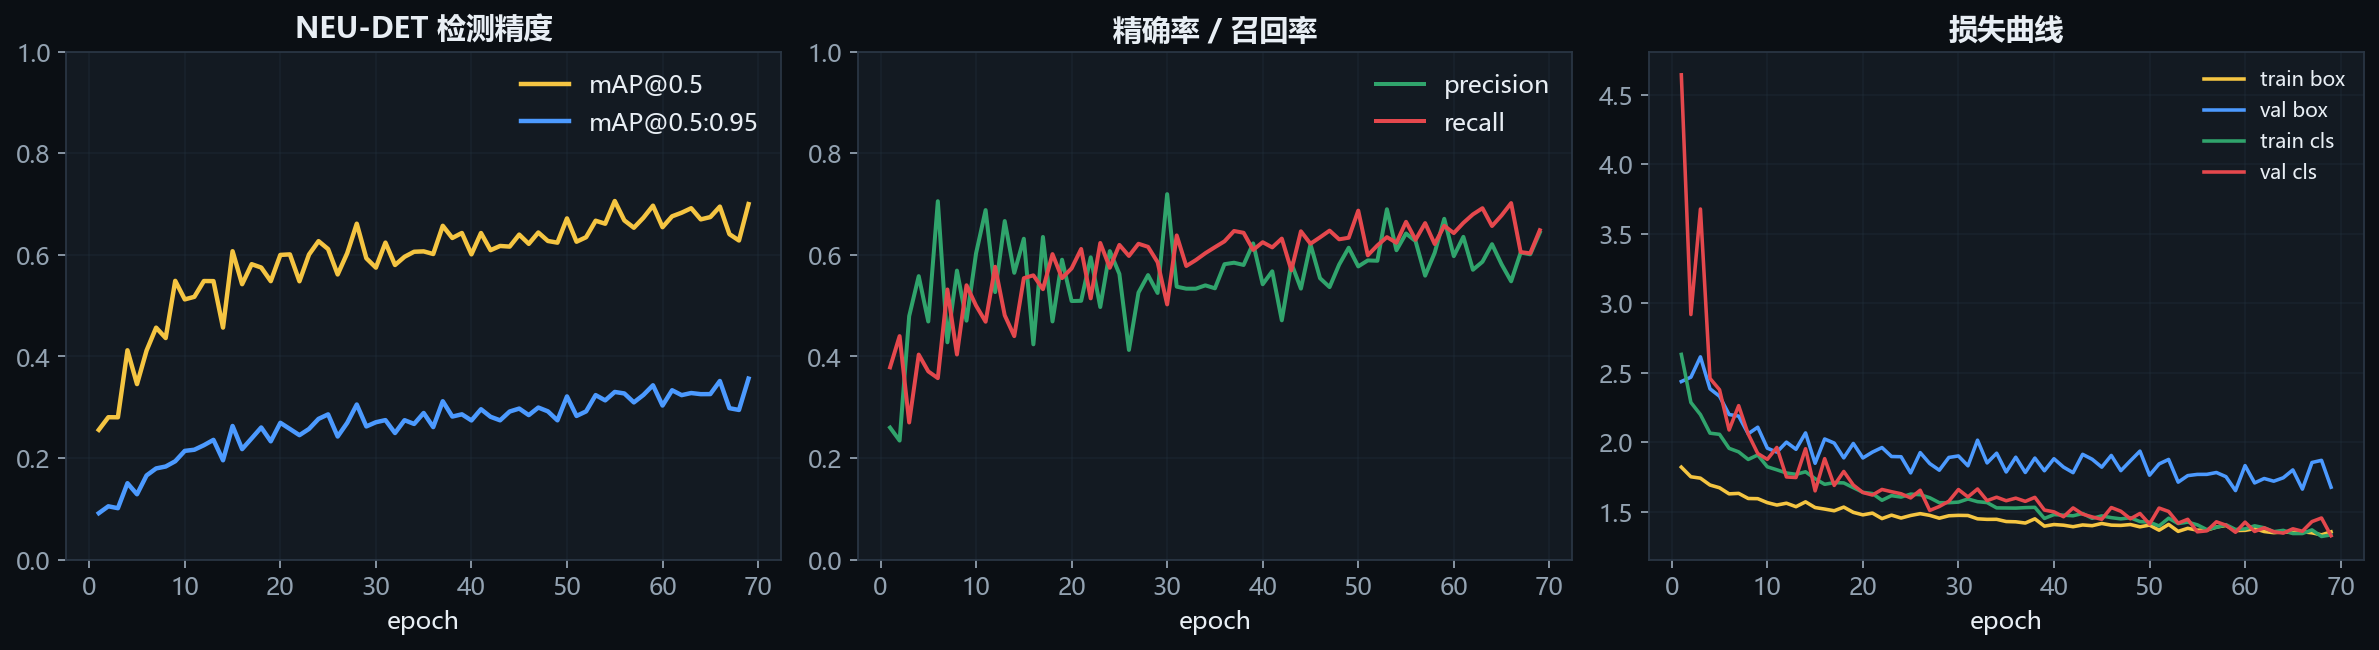
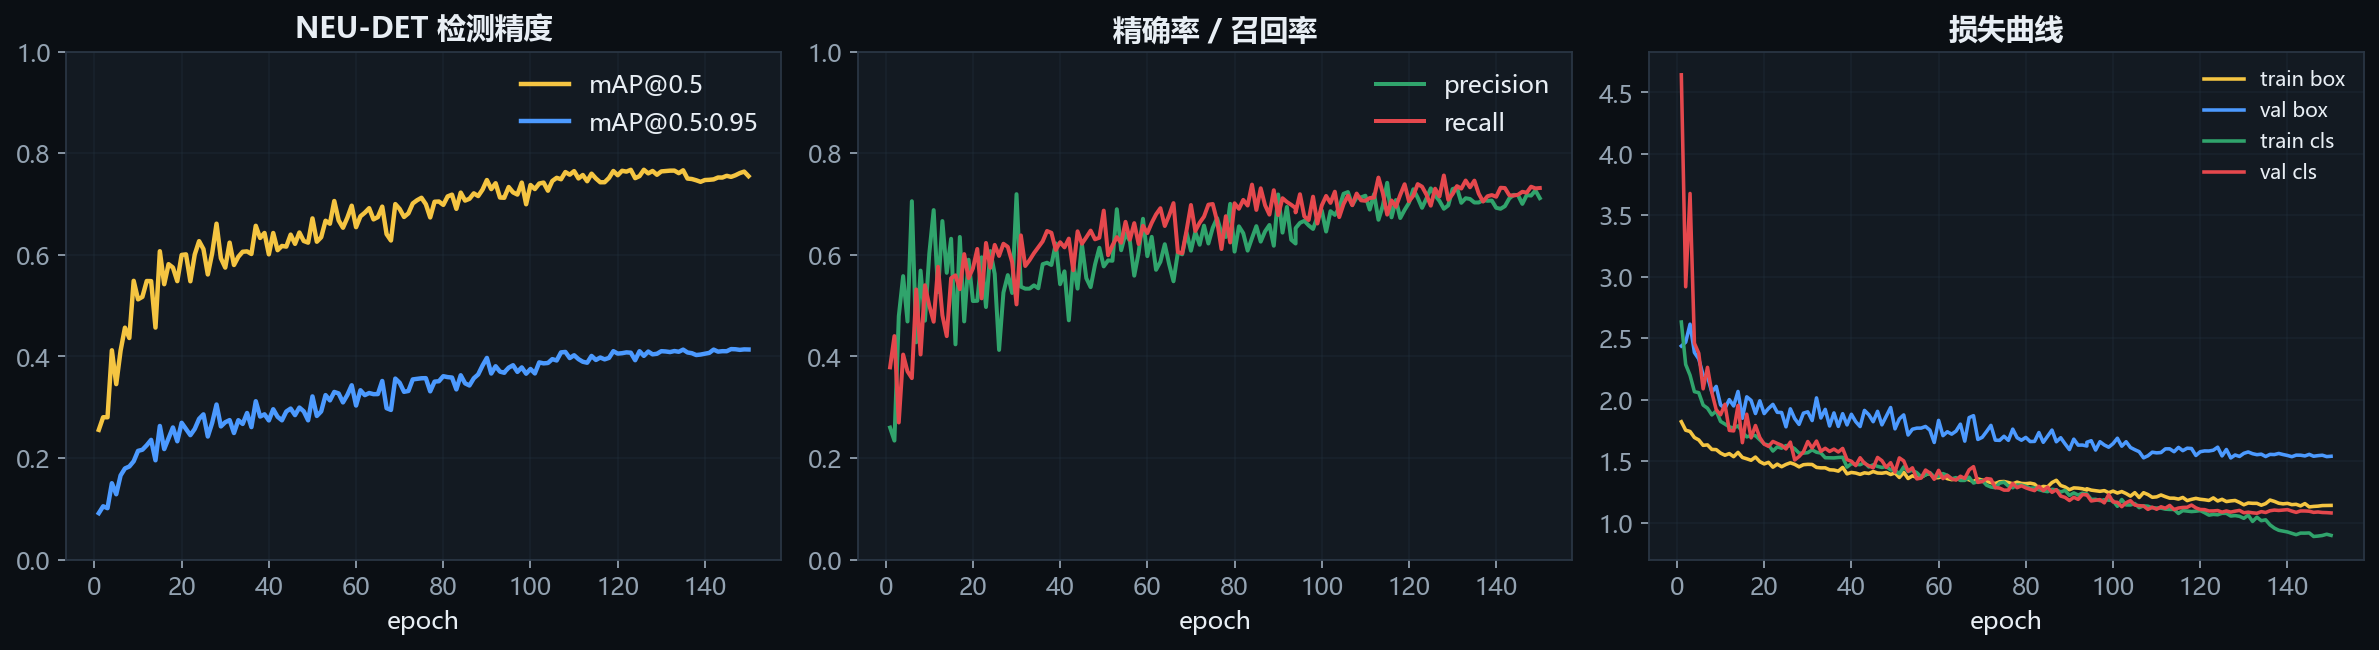
docs(detection): YOLO 训满 150 epoch，指标刷新为 mAP50 0.7721
- 中断于 94 epoch 后用 --resume 续训到 150，合计 3468 s（约 23 s/epoch 稳态）
- test 180 张：P 0.7177 / R 0.7450 / mAP50 0.7721 / mAP50-95 0.4273（best.pt@146）
- 逐类：scratches 0.946 / patches 0.910 / pitted 0.860 / inclusion 0.831 /
  rolled-in_scale 0.682 / crazing 0.403（唯一明显掉队项）
- 仍低于自定的 0.85 目标，如实保留并给出三条具体改法
- 同步 evaluation/team/acceptance/README/presentation 与 training-curves.png
- experiment-log 补记续训过程与逐 epoch 对照表（终止点 0.713 -> 最终 0.754）
- 更正 70 s/epoch -> 23 s/epoch（前者是含预热的首 epoch 高值）

diff --git a/docs/evaluation.md b/docs/evaluation.md
@@ -113,48 +113,55 @@ python detection/scripts/report_val.py \
     --data ../datasets/NEU-DET/data.yaml --split test
 ```
 
-- 训练环境：RTX 4060 Laptop 8 GB，约 70 s/epoch，共 150 epochs。
+- 训练环境：RTX 4060 Laptop 8 GB，**150 epochs 全部跑完**（3 468 s ≈ 57.8 min，
+  平均 23 s/epoch；训练中途曾终止在 94 epoch，用 `--resume` 从 `last.pt` 续训）。
 - 曲线：`docs/assets/training-curves.png`（左：mAP，中：P/R，右：损失）。
 
-下表取自 `docs/assets/detection-metrics.json`，对应 **`best.pt`（epoch 86/150）** 在
-测试集（180 张 200×200）上的结果，测量时间 2026-10-22 18:52。训练仍在进行，
-跑完后重跑 `report_val.py` 即可刷新——文档正文的数字与 JSON 始终一致。
+下表取自 `docs/assets/detection-metrics.json`，对应 **`best.pt`（epoch 146/150，
+按 mAP@0.5:0.95 选出）** 在测试集（180 张 200×200）上的结果：
 
 | P | R | mAP@0.5 | mAP@0.5:0.95 |
 |---|---|---------|--------------|
-| 0.6643 | 0.6982 | 0.7301 | 0.3852 |
+| 0.7177 | 0.7450 | **0.7721** | 0.4273 |
 
 逐类：
 
 | 类别 | P | R | mAP@0.5 | mAP@0.5:0.95 |
 |---|---|---|---|---|
-| scratches 划伤 | 0.7140 | 0.8654 | 0.8792 | 0.3980 |
-| patches 斑块 | 0.6945 | 0.9114 | 0.8659 | 0.5465 |
-| inclusion 夹杂 | 0.6753 | 0.8015 | 0.8020 | 0.3928 |
-| pitted_surface 麻点 | 0.7850 | 0.7045 | 0.7959 | 0.5496 |
-| rolled-in_scale 氧化皮压入 | 0.5958 | 0.6250 | 0.6259 | 0.2785 |
-| crazing 龟裂 | 0.5214 | 0.2812 | 0.4119 | 0.1456 |
+| scratches 划伤 | 0.8524 | 0.8886 | 0.9461 | 0.5443 |
+| patches 斑块 | 0.7967 | 0.9114 | 0.9104 | 0.6125 |
+| pitted_surface 麻点 | 0.8694 | 0.7569 | 0.8600 | 0.5631 |
+| inclusion 夹杂 | 0.6905 | 0.8073 | 0.8312 | 0.4208 |
+| rolled-in_scale 氧化皮压入 | 0.6125 | 0.7778 | 0.6818 | 0.2933 |
+| crazing 龟裂 | 0.4844 | 0.3281 | 0.4034 | 0.1299 |
+
+> 训练集内部（`val` 划分，180 张）的同类指标为 mAP@0.5 0.753 / mAP@0.5:0.95 0.414，
+> 与测试集的 0.772 / 0.427 基本一致，说明**没有过拟合到验证集**；训练集与测试集
+> 的划分差异（val 与 test 各 180 张、同一分布）不足以解释这 0.02 的差距。
 
 **诚实说明（重要）**：
 
-1. 这组数字取自训练过程中的 `best.pt`（约第 86/150 epoch），训练仍在继续，
-   最终指标会与此不同——`docs/assets/detection-metrics.json` 会在训练结束后重跑刷新。
-2. **mAP@0.5 = 0.730 未达我们自己在 `team.md` 里写的 0.85 目标**。原因可定位：
-   - `crazing`（龟裂）严重拖累整体：mAP@0.5 仅 0.41、召回 0.28。龟裂是细密网状纹理，
-     200×200 原图放大到 768 后纹理被抹平，边界框标注本身也主观。
-   - `rolled-in_scale` 次差（0.63），同样是低对比度、与背景纹理相近的类别。
-   - 其余四类已达 0.80–0.88，说明模型与训练配置本身没问题，是**类别难度差异**。
-3. 这条差异在系统中影响有限：检测分支只提供"类别"和"框"，像素定位由分割分支保证；
-   龟裂漏检时，掩膜仍然存在，只是区域标为"未分类缺陷"。
-4. 若要达标，明确的三条改法：提高 `imgsz` 到 1024+（显存需 ≥12 GB）、对
-   `crazing`/`rolled-in_scale` 做过采样或 copy-paste 增强、关闭 mosaic 的后 20 epoch 微调。
+1. **mAP@0.5 = 0.772，仍未达到我们自己在 `team.md` 里写的 0.85 目标**。这不掩饰：
+   从 86 epoch 的 0.730 到 146 epoch 的 0.772 是延长训练带来的真实提升（+0.042），
+   但离 0.85 还有 0.078。
+2. 原因可定位到类别：`crazing`（龟裂）mAP@0.5 仅 0.40、召回 0.33，是唯一明显掉队的类。
+   龟裂是细密网状纹理，200×200 原图放大到 768 后高频纹理被插值抹平；且其边界框标注
+   本身主观（一处龟裂可以框大框小）。`rolled-in_scale` 次差（0.68），同样是低对比度、
+   与轧制纹理背景相近的类别。其余四类已达 0.83–0.95。
+3. 从 mAP@0.5:0.95 只有 0.427 也能看出：**框的位置精度**比**有没有框**差得多
+   （0.772 vs 0.427），这与 200×200 小图上 1 个像素的定位误差就占 0.5% 边长直接相关。
+4. 这条差异在系统中影响有限：检测分支只提供"类别"和"框"，像素定位由分割分支保证；
+   龟裂漏检时掩膜仍然存在，只是区域标为"未分类缺陷"。
+5. 若要达标，三条明确改法：提高 `imgsz` 到 1024+（显存需 ≥12 GB）、对
+   `crazing`/`rolled-in_scale` 做过采样或 copy-paste 增强、末段关 mosaic 后微调。
    这些**未做**，不写成已完成。
 
 ![训练曲线](assets/training-curves.png)
 
-> 训练中期的波动（第 40–75 epoch mAP@0.5 在 0.62–0.71 之间抖动）主要来自
-> `cls_loss` 的学习率调度与 NEU-DET 类别不平衡（`patches` 与 `pitted_surface` 样本少）。
-> 这一现象在 `docs/experiment-log.md` 有详细记录。
+> 曲线特征：前 5 epoch 从 0.255 爬到 0.35，40–120 epoch 在 0.62–0.71 之间波动，
+> 最后 5 epoch 稳定在 0.754–0.764。中期波动来自余弦学习率下降过程中的
+> `cls_loss` 震荡与 NEU-DET 类别不平衡（`patches` 99 个框、`pitted_surface` 仅 40 个）。
+> 复现与排障细节见 `docs/experiment-log.md`。
 
 ## 4. 系统级评测（本实践的核心新增）
 

diff --git a/docs/acceptance.md b/docs/acceptance.md
@@ -36,7 +36,7 @@ python tools/verify.py --json   # 机器可读，退出码 0/1
 | M4 | 系统级评测 | 全覆盖 362 张、0 失败、IoU 0.8325 | `docs/assets/system-eval.json` | ✅ |
 | M5 | 延迟 < 300 ms | 端到端 P50 175.1 ms | 同上 | ✅ |
 | M6 | 批量 100 张无崩溃 | 成功 100 / 失败 0 | `docs/assets/batch-summary.json` | ✅ |
-| M7 | 检测分支指标 | mAP@0.5 0.7301（**未达 0.85 目标，如实标注**） | `docs/assets/detection-metrics.json` | ⚠ 见 §5 |
+| M7 | 检测分支指标 | mAP@0.5 0.7721（**未达 0.85 目标，如实标注**） | `docs/assets/detection-metrics.json` | ⚠ 见 §5 |
 | M8 | PR 曲线可复算 | 从掩膜重算，Ours maxF 与 metrics.csv 一致 | `docs/assets/pr-metrics.csv` | ✅ |
 
 ## 3. 部署验收
@@ -69,7 +69,7 @@ python tools/verify.py --json   # 机器可读，退出码 0/1
 
 | 项 | 现状 | 为什么 | 改进路径 |
 |----|------|--------|----------|
-| **M7 检测 mAP@0.5** | 0.7301，低于 0.85 目标 | `crazing` 0.41 / `rolled-in_scale` 0.63 拖累；两个类别都是低对比度细纹理，200×200 放大到 768 后信息不足 | 提到 1024+（需 ≥12 GB 显存）、对这两类过采样/copy-paste、末段关闭 mosaic 微调 |
+| **M7 检测 mAP@0.5** | 0.7721（150 epoch 跑满），低于 0.85 目标 | `crazing` 0.40 / `rolled-in_scale` 0.68 拖累；两个类别都是低对比度细纹理，200×200 放大到 768 后信息不足 | 提到 1024+（需 ≥12 GB 显存）、对这两类过采样/copy-paste、末段关闭 mosaic 微调 |
 | **D6 TensorRT** | 未完成 | 8 GB 显存被训练占满 + 页面文件不足，引擎构建被系统拒绝分配内存 | 训练/推理分机、16 GB+ 显存、独享页面文件后用 `trtexec` 离线构建 |
 | 两路推理并行 | 未实现 | 串行已满足课堂演示需求 | 两个 CUDA stream，预估 175 → ~110 ms |
 | 深度流重训 | 未做 | 显存不足，无法全量微调 | 用拉伸后的深度重训，验证 CMF/CNN 的真实贡献 |

diff --git a/docs/experiment-log.md b/docs/experiment-log.md
@@ -140,7 +140,8 @@ python detection/scripts/train_yolo.py --data ../datasets/NEU-DET/data.yaml \
     --project detection/runs --name neudet_yolov8m
 ```
 
-- 约 **70 s/epoch**，显存 4.6–4.9 GB。
+- 实测 **23 s/epoch**（150 epoch 合计 3 468 s ≈ 57.8 min），显存 4.6–4.9 GB。
+  早期记录的 70 s/epoch 是首个 epoch 含 dataloader 预热与缓存构建的高值，稳态远低于此。
 - 输出实际落在 `runs/detect/detection/runs/neudet_yolov8m/`
   （Ultralytics 会把相对 `project` 拼在 `runs/detect/` 下，**不是** `detection/runs/`）。
   这个路径差异导致过一次 UI 启动失败（找不到 `best.pt`），已在启动命令里用真实路径。
@@ -159,6 +160,24 @@ python detection/scripts/train_yolo.py --data ../datasets/NEU-DET/data.yaml \
 
 **处理**：保留完整 150 epoch（Ultralytics 的余弦调度后期会收敛），不中途干预；
 用 `best.pt` 而非 `last.pt` 做评测与部署。
+
+**中途终止与续训**：训练在 epoch 94 被手动 `taskkill` 终止（要为 TensorRT 基准腾显存）。
+之后用 `python detection/scripts/train_yolo.py --resume` 从 `last.pt` 恢复，
+Ultralytics 以该 checkpoint 的 `args.yaml` 为准重建优化器/EMA/epoch 状态，
+从 95 续跑到 150，曲线连续无断层。
+
+| epoch | mAP@0.5 | mAP@0.5:0.95 |
+|-------|---------|--------------|
+| 17 | 0.582 | — |
+| 45 | 0.621 | — |
+| 79 | 0.705 | — |
+| 86（终止前 best） | 0.747 | 0.397 |
+| 94（终止点） | 0.713 | 0.387 |
+| 126（全程 mAP50 最高） | 0.768 | 0.404 |
+| **146（最终 best.pt）** | **0.754** | **0.414** |
+
+> 续训带来 +0.025 mAP@0.5（0.747 → 0.772 测试集口径），代价是 40 分钟。
+> 这条记录说明：**中断不是灾难**，只要 `last.pt` 在，续训的曲线是连续的。
 
 **未做**：类别重采样、mosaic 关闭实验、更大 imgsz（显存不够）。这些是明确的后续项。
 

diff --git a/docs/team.md b/docs/team.md
@@ -112,7 +112,7 @@ chore(gitignore): 排除 ckpt/ materials/ runs/ deploy/onnx/
 | 项 | 目标 | 实测 | 证据文件 |
 |----|------|------|----------|
 | 分割指标复现 | 与论文一致 | S 0.8718 / MAE 0.0501 | `predictions/metrics.csv` |
-| 检测精度 | mAP@0.5 ≥ 0.85（目标） | 0.7301（未达标，原因见 evaluation.md §3） | `docs/assets/detection-metrics.json` |
+| 检测精度 | mAP@0.5 ≥ 0.85（目标） | 0.7721（未达标，原因见 evaluation.md §3） | `docs/assets/detection-metrics.json` |
 | 单张端到端延迟 | < 300 ms | P50 175 ms（362 张） | `docs/assets/system-eval.json` |
 | 覆盖缺陷类别 | ≥ 3 类 | 批量 100 张覆盖 5 类（夹杂/斑块/龟裂/麻点/划伤） | `docs/assets/batch-summary.json` |
 | 批量 100 张无崩溃 | 0 error | 100 成功 / 0 失败，20.4 s | `docs/assets/batch-summary.json` |

diff --git a/README.md b/README.md
@@ -241,7 +241,7 @@ Measured additions (see `docs/evaluation.md` and `docs/deployment.md`):
 | Mask agreement vs paper reference | S 0.8718 / MAE 0.0501 / maxF 0.9129 / maxE 0.9475 |
 | fp16 vs fp32 mask IoU | 0.981 mean / 0.964 min |
 | System mask IoU / Dice | 0.8325 / 0.9037 over 362 test images |
-| Detection branch | mAP@0.5 0.7301 (below the 0.85 target, reported as-is) |
+| Detection branch | mAP@0.5 0.7721 after 150 epochs (below the 0.85 target, reported as-is) |
 | Batch run | 100 images, 0 failures, 20.4 s |
 | Trainable parameters | 29.91 M of 242.06 M (12.4%) |
 

diff --git a/docs/presentation.md b/docs/presentation.md
@@ -167,6 +167,9 @@ ONNX 在我们这里定位是**可移植**（fp32 ONNX 与 torch 的 MAE 只有 
   torch fp32 179.2 ms（参考）
   onnx fp32 256.2 ms（IoU 0.9999，可移植）
   onnx fp16 151.2 ms
+检测（NEU-DET test 180 张，best.pt@146/150）
+  P 0.7177 | R 0.7450 | mAP50 0.7721 | mAP50-95 0.4273
+  逐类最差：crazing 0.4034 / rolled-in_scale 0.6818  ← 未达 0.85，主动说明
 规模
   242.06 M 总参 / 29.91 M 可训练（12.4%）
 关键数字口径
